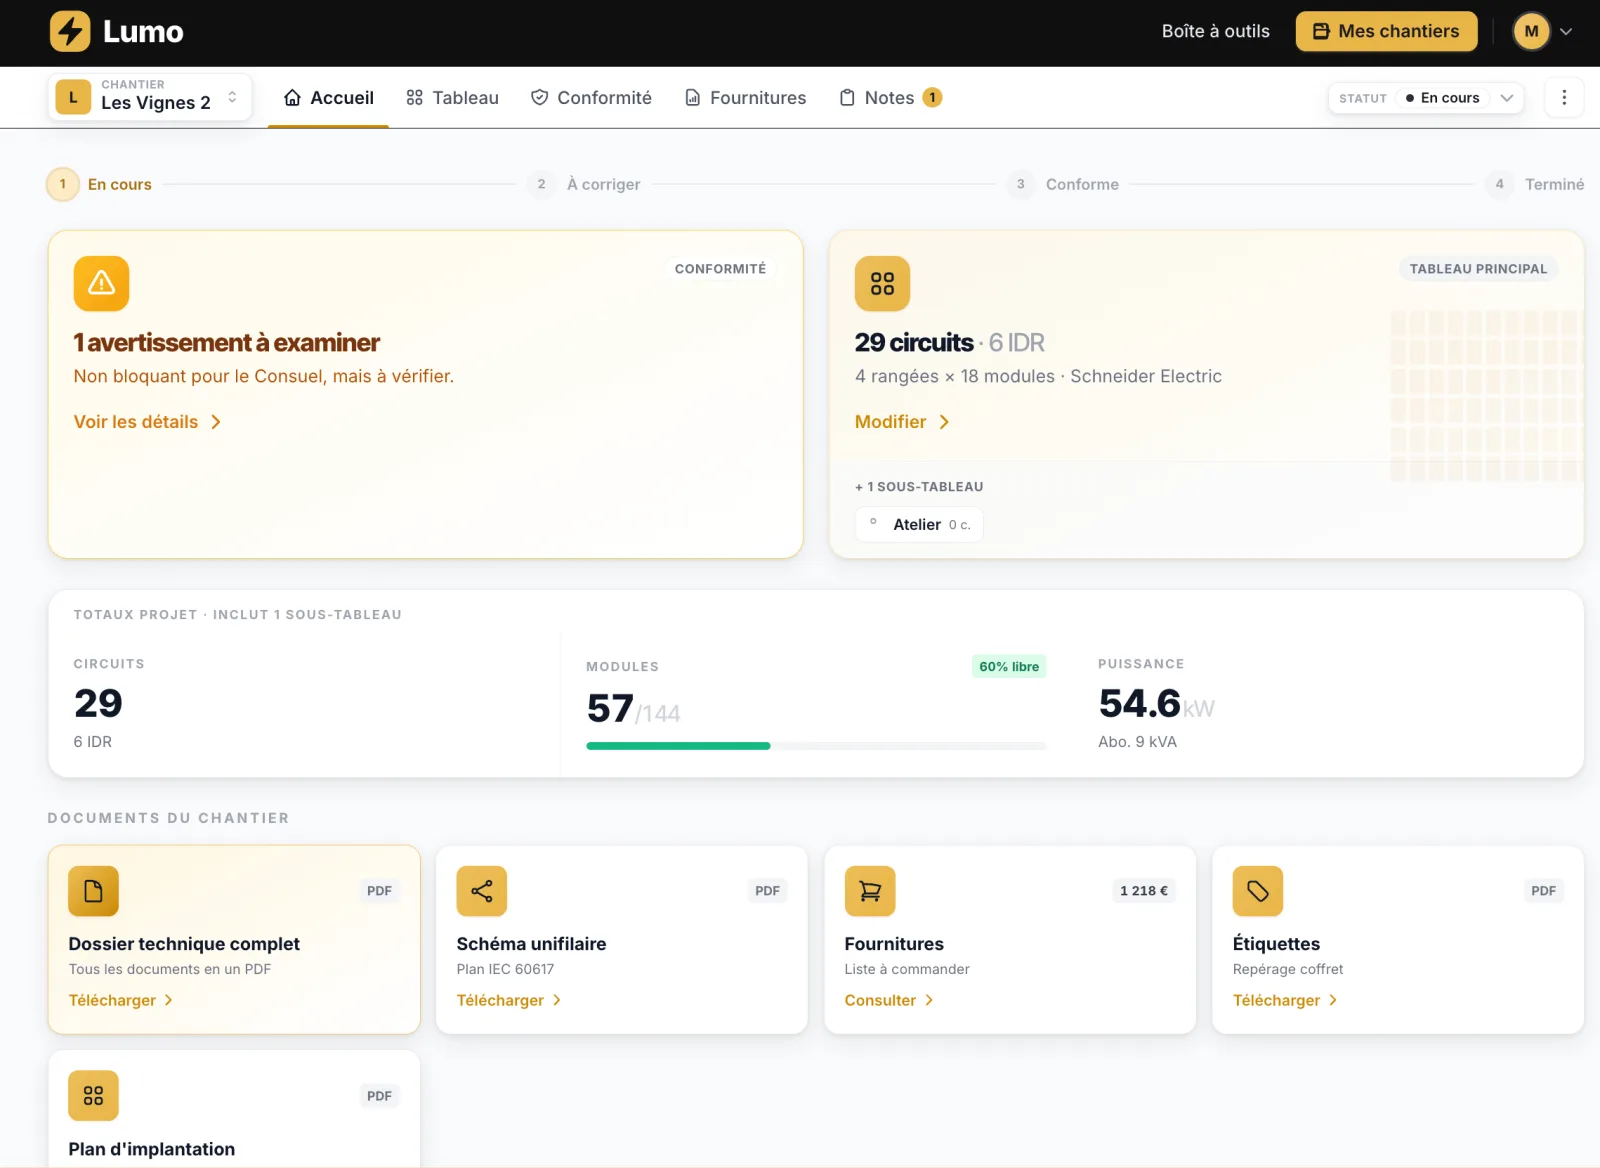
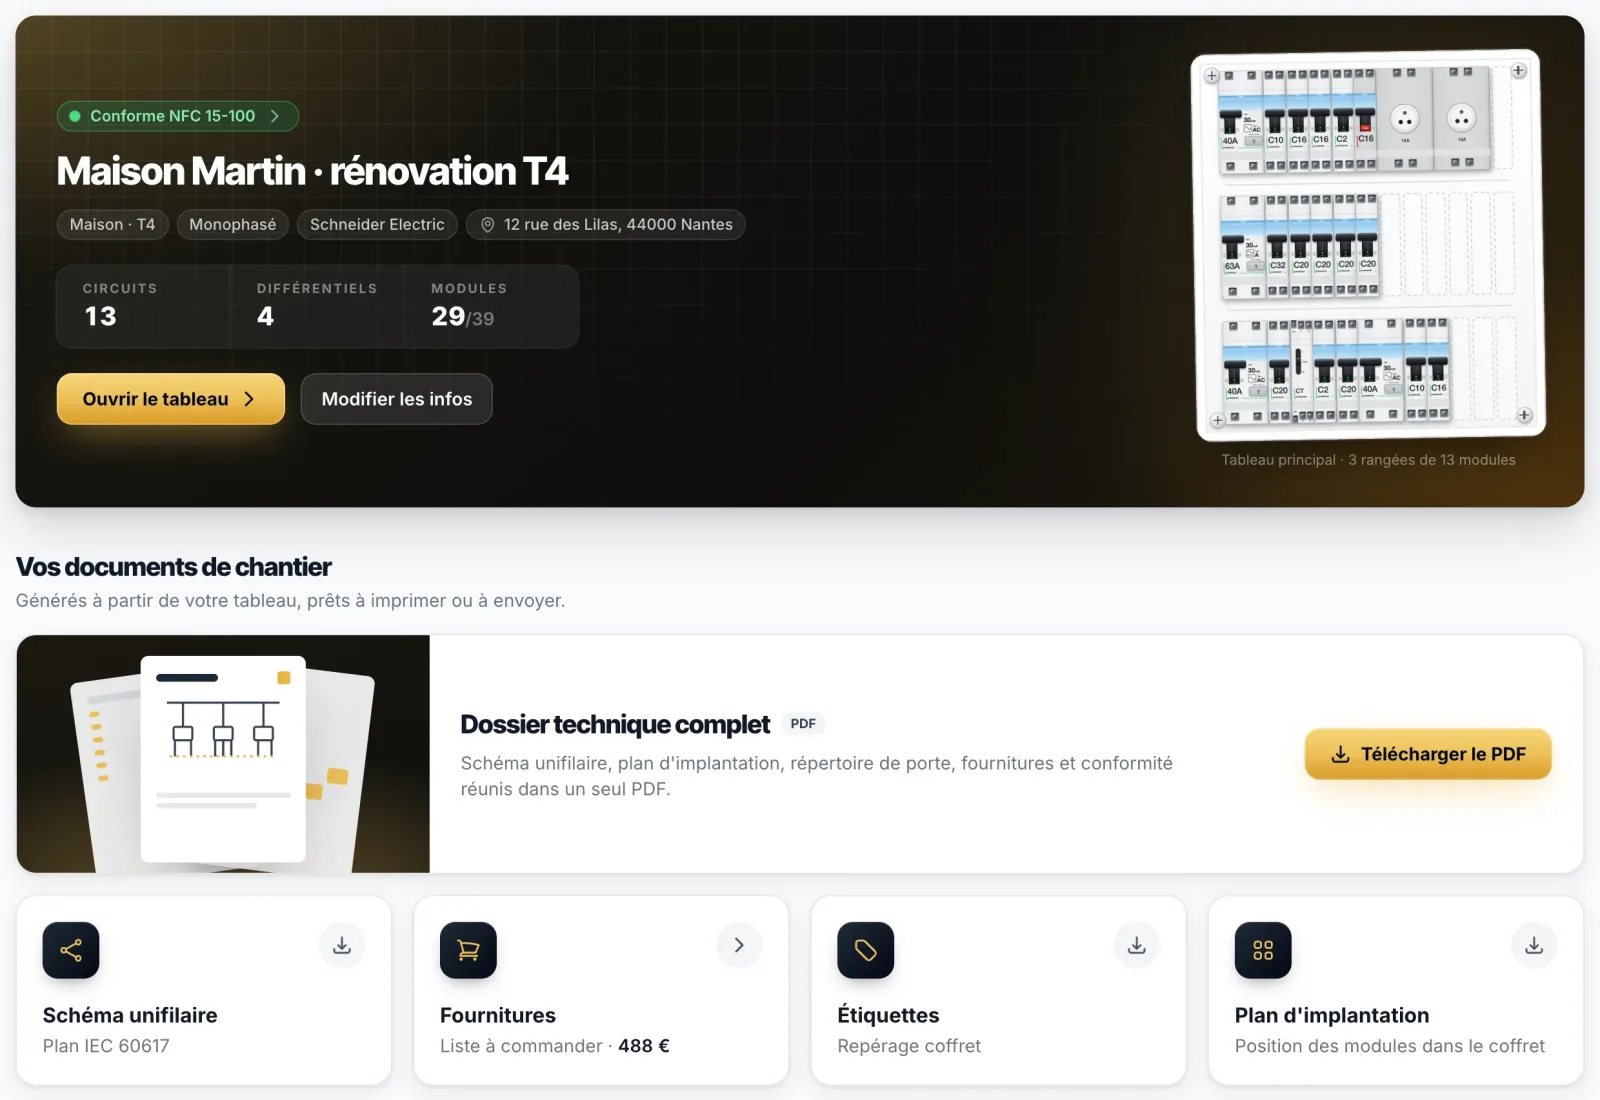
add lumo article

diff --git a/_posts/2026-11-03-lumo-mon-outil-pour-concevoir-un-tableau-electrique.md b/_posts/2026-11-03-lumo-mon-outil-pour-concevoir-un-tableau-electrique.md
@@ -1,19 +1,19 @@
 ---
 layout: blog
 title: "Lumo, mon outil pour concevoir un tableau électrique"
-description: "Retour d'expérience sur Lumo, l'outil en ligne que je développe depuis huit mois pour concevoir des tableaux électriques conformes à la NF C 15-100, destiné aux particuliers qui rénovent eux-mêmes comme aux électriciens : une idée née en regardant des électriciens concevoir leurs tableaux sur un bout de carton, un outil testé sur la rénovation de ma maison et qui m'a servi à réviser la norme pour mon CAP, son fonctionnement (circuits, répartition sous interrupteurs différentiels, équilibrage des phases, diagnostic d'un tableau existant à partir d'une photo, schéma unifilaire, étiquettes), son installation sur mobile comme une application (PWA), ce qu'il apporte à un particulier qui se lance dans sa rénovation et les près de 400 utilisateurs qui s'en servent aujourd'hui."
-keywords: "Lumo, logiciel tableau électrique, conception tableau électrique, tableau électrique NFC 15-100, logiciel NFC 15-100, répartition tableau électrique, équilibrage des phases triphasé, schéma unifilaire en ligne, étiquettes tableau électrique, faire son tableau électrique soi-même, rénovation électrique particulier, diagnostic tableau électrique existant, tableau divisionnaire, outil électricien, application électricien, application mobile tableau électrique, PWA hors ligne chantier, réviser la NFC 15-100, CAP électricien, reconversion développeur électricien"
+description: "Retour d'expérience sur Lumo, l'outil en ligne que je développe depuis huit mois pour concevoir des tableaux électriques conformes à la NF C 15-100, destiné aux particuliers qui rénovent eux-mêmes comme aux électriciens : une idée née en regardant des électriciens concevoir leurs tableaux sur un bout de carton, un outil testé sur la rénovation de ma maison et qui m'a servi à réviser la norme pour mon CAP, son fonctionnement (circuits, répartition sous interrupteurs différentiels, équilibrage des phases, diagnostic d'un tableau existant à partir d'une photo, schéma unifilaire, étiquettes), son installation sur mobile comme une application (PWA), ses trois offres payées une seule fois par chantier, ce qu'il apporte à un particulier qui se lance dans sa rénovation et les près de 400 utilisateurs qui s'en servent aujourd'hui."
+keywords: "Lumo, logiciel tableau électrique, conception tableau électrique, tableau électrique NFC 15-100, logiciel NFC 15-100, répartition tableau électrique, équilibrage des phases triphasé, schéma unifilaire en ligne, étiquettes tableau électrique, faire son tableau électrique soi-même, rénovation électrique particulier, diagnostic tableau électrique existant, tableau divisionnaire, outil électricien, application électricien, application mobile tableau électrique, PWA hors ligne chantier, prix Lumo, tarifs Lumo, réviser la NFC 15-100, CAP électricien, reconversion développeur électricien"
 category: "Électricité"
 date: 2026-11-03
-published: false
+published: true
 image: /images/blog/lumo/dashboard.webp
 excerpt: "Depuis huit mois, je développe Lumo, un outil en ligne qui conçoit des tableaux électriques conformes à la NF C 15-100, pour les particuliers qui rénovent eux-mêmes comme pour les électriciens. L'idée est née devant des vidéos d'électriciens qui dessinaient leurs tableaux sur un bout de carton. Testé sur la rénovation de ma maison, l'outil m'a aussi servi à réviser la norme pour mon CAP. Il compte aujourd'hui près de 400 utilisateurs. Voici d'où il vient, ce qu'il m'a appris et ce qu'il peut vous apporter."
 ---
 
 Ça fait maintenant huit mois que je développe [Lumo](https://getlumo.fr), un outil en ligne pour concevoir des tableaux électriques conformes à la NF C 15-100, accessible sur [getlumo.fr](https://getlumo.fr). Je n'en avais encore jamais parlé ici, alors que c'est sans doute le projet qui résume le mieux ma reconversion : le développement, mon métier d'origine, y rejoint l'électricité, celui que j'apprends. L'idée est née devant des vidéos d'électriciens qui dessinaient leurs tableaux au crayon. Aujourd'hui, près de 400 personnes l'utilisent. Voici d'où il vient, ce qu'il m'a appris et ce qu'il peut vous apporter, que vous rénoviez vous-même votre maison ou que vous soyez électricien.
 
-![L'éditeur de tableau de Lumo : deux rangées de modules Schneider (sectionneur général, interrupteur différentiel 63 A 30 mA, disjoncteurs C20 et C16, contacteur jour-nuit), avec à droite un avertissement NF C 15-100 sur un détecteur d'arc, l'équilibrage des trois phases et un tableau divisionnaire « Atelier »](/images/blog/lumo/tableau.webp)
-*L'éditeur de tableau d'un chantier en triphasé. Les modules sont dessinés comme les vrais, ici en Schneider. À droite, la conformité NF C 15-100, l'équilibrage des phases et le tableau divisionnaire de l'atelier.*
+![L'éditeur de tableau de Lumo : deux rangées de 13 modules Schneider, avec un interrupteur différentiel 40 A type AC suivi des disjoncteurs de l'éclairage, des prises du séjour, des volets roulants et de la VMC, puis un interrupteur différentiel 63 A type A suivi de disjoncteurs C32 et C20](/images/blog/lumo/tableau.webp)
+*L'éditeur de tableau. Les modules sont dessinés comme les vrais, ici en Schneider, avec sous chacun son repère et le circuit qu'il protège. Chaque rangée indique combien de modules restent libres.*
 
 ## Au départ, un bout de carton à côté du tableau vide
 
@@ -48,13 +48,13 @@ Le développement apporte la rigueur : une architecture pensée pour durer, des 
 
 Concrètement, [Lumo](https://getlumo.fr) fonctionne en quelques étapes. On commence par décrire le logement : maison ou appartement, du T1 au T7, alimentation monophasée ou triphasée, puissance de l'abonnement. On ajoute ensuite les équipements pièce par pièce, des éclairages et des prises jusqu'à la borne de recharge, la pompe à chaleur ou la piscine. Lumo en déduit la liste des circuits, calibres et sections compris.
 
-![Liste détaillée des circuits du tableau principal dans Lumo : radiateurs, chauffe-eau, prises par groupe de pièces, frigo, sèche-serviettes, volets roulants, éclairages, arrosage, avec pour chacun le calibre du disjoncteur, la section de câble, le nombre de points et la phase](/images/blog/lumo/circuits.webp)
-*La liste des circuits déduite des équipements : pour chacun, le calibre du disjoncteur, la section de câble, le nombre de points et la phase.*
+![Saisie des pièces dans Lumo : le séjour avec ses points lumineux, ses prises 16 A et ses volets roulants, puis la cuisine avec ses prises de plan de travail, un four de 3 500 W, des plaques de cuisson de 7 200 W, un lave-vaisselle et un réfrigérateur](/images/blog/lumo/pieces.webp)
+*La saisie des pièces : pour chacune, on indique les équipements, leur nombre ou leur puissance. Lumo rappelle au passage la règle de la norme qui s'applique.*
 
 Vient ensuite la répartition : les circuits sont placés sous les interrupteurs différentiels, les phases équilibrées en triphasé, le tout rangé dans un coffret Legrand, Schneider ou Hager de 13, 18 ou 24 modules par rangée. Rien n'est figé pour autant. On déplace un module par glisser-déposer, on change la taille du coffret, on ajoute un tableau divisionnaire pour un étage ou un garage. Si de nouveaux équipements arrivent en cours de route, on complète le chantier et la répartition s'ajuste sans repartir de zéro. À chaque changement, la conformité est recontrôlée. Lumo signale aussi ce que la norme conseille sans l'imposer, comme un détecteur d'arc sur certains circuits.
 
-![Page Conformité du chantier dans Lumo : un avertissement non bloquant sur un détecteur d'arc recommandé, puis la checklist Consuel avec ses points bloquants (schéma unifilaire imprimé, attestation de conformité, étiquetage des circuits, réserve de 20 % dans le tableau)](/images/blog/lumo/conformites.webp)
-*La page Conformité du chantier. En haut, une recommandation de la norme, signalée comme non bloquante. En dessous, la checklist Consuel à cocher au fil des travaux.*
+![Checklist Consuel dans Lumo : les documents à préparer (schéma unifilaire imprimé, attestation de conformité, plan de l'installation) puis les points de contrôle du tableau (étiquetage des circuits, réserve de 20 %, nombre d'interrupteurs différentiels, au moins un type A), les points bloquants étant signalés en rouge](/images/blog/lumo/consuel.webp)
+*La checklist Consuel du chantier. Chaque point contrôlé lors de la visite y figure, les bloquants sont signalés. On les coche au fil des travaux.*
 
 Une fois le tableau validé, Lumo génère les documents du chantier : le schéma unifilaire, les étiquettes à coller sur le tableau, le plan d'implantation, le diagnostic de conformité et un dossier technique complet. S'y ajoutent la liste des fournitures, avec un prix indicatif que l'on peut comparer entre les trois marques, ainsi qu'une checklist pour préparer le passage du Consuel.
 
@@ -69,7 +69,7 @@ Lumo s'adresse d'abord aux particuliers qui rénovent eux-mêmes, qu'ils partent
 - **Acheter le bon matériel du premier coup.** La liste des fournitures vous dit exactement quoi commander, avec un prix indicatif. Elle permet en plus de comparer Legrand, Schneider et Hager avant de passer commande.
 - **Finir avec un tableau propre.** Grâce aux étiquettes et au schéma unifilaire, votre tableau reste lisible, pour vous comme pour l'électricien qui interviendra après vous. La checklist Consuel vous aide ensuite à préparer le contrôle.
 
-![Liste des fournitures dans Lumo avec le total comparé entre Legrand (878 €), Schneider Electric (1 218 €) et Hager (991 €) : coffret, interrupteurs différentiels et disjoncteurs avec leurs références, quantités et prix](/images/blog/lumo/fournitures.webp)
+![Liste des fournitures dans Lumo avec le total comparé entre Legrand (373 €), Schneider Electric (488 €) et Hager (505 €) : coffret, interrupteurs différentiels et disjoncteurs avec leurs références, quantités et prix](/images/blog/lumo/fournitures.webp)
 *La liste des fournitures, avec le total comparé entre Legrand, Schneider et Hager. Les prix sont indicatifs, mais on sait exactement quoi commander.*
 
 Je préfère être honnête sur ce que Lumo ne fait pas. Il vous aide à concevoir un tableau conforme, il ne le pose pas à votre place. La qualité des raccordements, le serrage des bornes et le passage des câbles restent entre vos mains. La lecture de la photo par l'intelligence artificielle mérite toujours une vérification, parce qu'un calibre mal visible peut la tromper. Enfin, quand le Consuel est requis, c'est l'installation réelle qu'il contrôle, pas le plan. Au moindre doute pendant les travaux, faire passer un électricien reste une bonne idée.
@@ -95,6 +95,16 @@ Lumo est ce qu'on appelle une PWA, mais vous n'avez pas besoin de le savoir pour
 - **Sur Android**, ouvrez [getlumo.fr](https://getlumo.fr) dans Chrome, touchez le menu à trois points en haut à droite, puis « Installer l'application » ou « Ajouter à l'écran d'accueil ».
 
 L'icône de Lumo apparaît alors parmi vos applications, prête pour le prochain chantier.
+
+## Ce que ça coûte
+
+La configuration reste gratuite, sans limite : vous créez votre chantier, décrivez le logement, ajoutez vos équipements, ajustez les circuits et choisissez le coffret sans rien payer. Le paiement n'intervient qu'au moment de débloquer le tableau généré et ses documents. Il n'y a pas d'abonnement : vous payez une seule fois, par chantier, selon ce dont vous avez besoin.
+
+- **Essentiel, 4,99 € par chantier.** Le tableau électrique généré et conforme à la NF C 15-100, le détail de chaque circuit (calibres, sections, interrupteurs différentiels), l'éditeur complet avec contrôle de la norme à chaque modification, les tableaux divisionnaires et le partage du tableau par lien.
+- **Chantier, 9,99 € par chantier.** Tout ce que contient Essentiel, plus les documents à remettre : le schéma unifilaire prêt pour le Consuel, la liste de fournitures chiffrée par marque, la checklist Consuel, les étiquettes de tableau, le plan d'implantation, le rapport de diagnostic et le dossier technique complet en PDF.
+- **Pro, 19,99 € par chantier.** Tout ce que contient Chantier, plus les outils de l'électricien : la collaboration avec les membres de votre équipe, les documents au nom de votre entreprise et les étiquettes au format ruban pour étiqueteuse Brother P-touch.
+
+Pour un particulier qui refait son installation, l'offre Chantier contient tout ce qu'il faut pour poser le tableau et passer le Consuel. L'offre Pro s'adresse aux électriciens qui travaillent en équipe et remettent des documents à leur nom. Si vous commencez petit, vous pourrez passer à l'offre supérieure plus tard en ne payant que la différence. Le détail est sur [getlumo.fr/tarifs](https://getlumo.fr/tarifs).
 
 ## Près de 400 utilisateurs, ce n'est que le début
 
